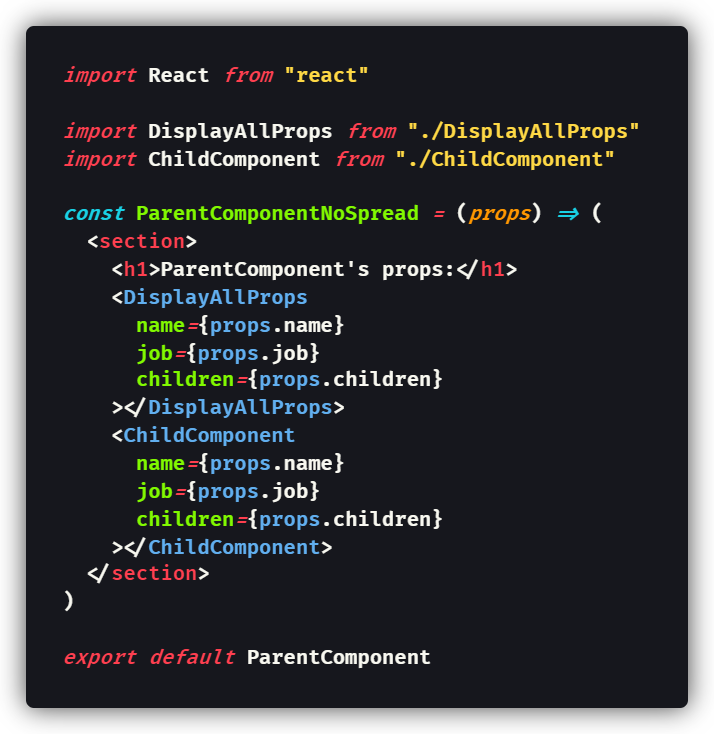
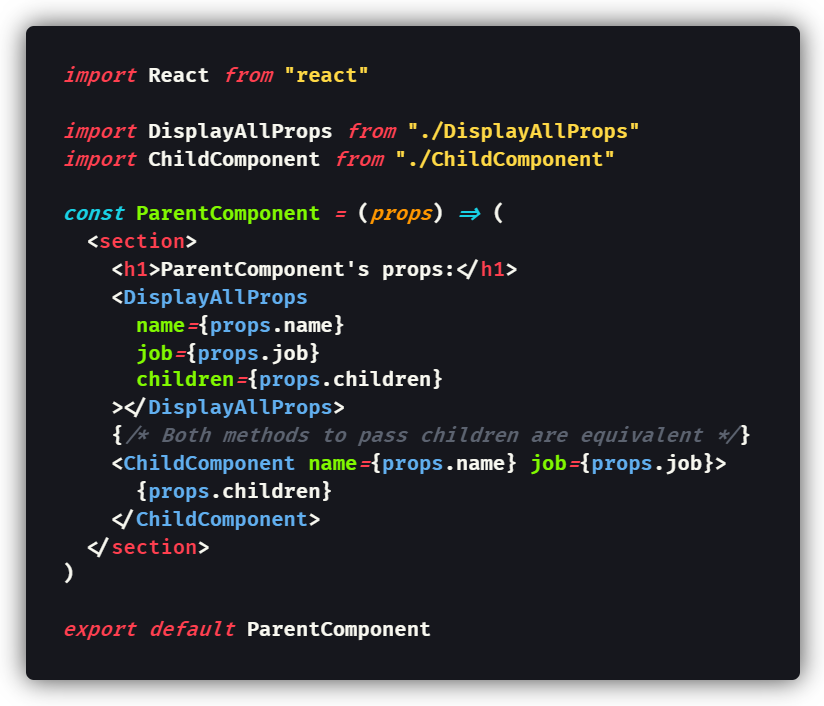
Updated no Spread

Changed region(s): [[0.0308, 0.0312, 0.9244, 0.966], [0.9552, 0.0312, 0.986, 0.966]]

diff --git a/src/ParentComponentNoSpread.jsx b/src/ParentComponentNoSpread.jsx
@@ -3,7 +3,7 @@ import React from "react"
 import DisplayAllProps from "./DisplayAllProps"
 import ChildComponent from "./ChildComponent"
 
-const ParentComponentNoSpread = (props) => (
+const ParentComponent = (props) => (
   <section>
     <h1>ParentComponent's props:</h1>
     <DisplayAllProps
@@ -11,11 +11,10 @@ const ParentComponentNoSpread = (props) => (
       job={props.job}
       children={props.children}
     ></DisplayAllProps>
-    <ChildComponent
-      name={props.name}
-      job={props.job}
-      children={props.children}
-    ></ChildComponent>
+    {/* Both methods to pass children are equivalent */}
+    <ChildComponent name={props.name} job={props.job}>
+      {props.children}
+    </ChildComponent>
   </section>
 )
 
